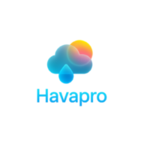
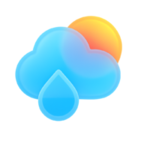
feat: Enhanced HavaPro branding and UI improvements
- Updated logo sizes and positioning across all pages
- Improved favicon with proper app/icon.png configuration
- Enhanced location search with duplicate prevention
- Fixed manifest.json location and configuration
- Optimized header spacing and layout
- Added smart location management (existing locations become main instead of duplicate)
- Updated app name to HavaPro throughout the application

diff --git a/components/locations-page.tsx b/components/locations-page.tsx
@@ -50,10 +50,23 @@ export function LocationsPage() {
       fetchLocations()
     } else {
       setResults([])
+      setError(null) // Clear error when search term is cleared
     }
   }, [debouncedSearchTerm])
 
   const handleAddLocation = async (location: SearchResult) => {
+    // Check if location already exists
+    const existingLocation = locations.find(loc => 
+      Math.abs(loc.lat - location.lat) < 0.01 && 
+      Math.abs(loc.lon - location.lon) < 0.01
+    );
+    
+    if (existingLocation) {
+      setError(`${location.name} is already in your locations list.`);
+      return;
+    }
+    
+    setError(null);
     await addLocation({
         name: location.name,
         lat: location.lat,
@@ -93,7 +106,10 @@ export function LocationsPage() {
             <Input
               placeholder="E.g., London, New York..."
               value={searchTerm}
-              onChange={(e) => setSearchTerm(e.target.value)}
+              onChange={(e) => {
+                setSearchTerm(e.target.value)
+                if (error) setError(null) // Clear error when typing
+              }}
               className="pl-10"
             />
             {loading && <Loader2 className="absolute right-3 top-1/2 -translate-y-1/2 h-5 w-5 animate-spin" />}
@@ -101,14 +117,27 @@ export function LocationsPage() {
           {error && <p className="text-red-500 mt-2">{error}</p>}
           {results.length > 0 && (
             <div className="mt-4 space-y-2 max-h-60 overflow-y-auto">
-              {results.map((result, index) => (
-                <div key={index} className="flex items-center justify-between p-2 rounded-md hover:bg-white/10">
-                  <span>{result.name}, {result.state ? `${result.state}, ` : ''}{result.country}</span>
-                  <Button size="sm" onClick={() => handleAddLocation(result)}>
-                    Add
-                  </Button>
-                </div>
-              ))}
+              {results.map((result, index) => {
+                const isAlreadyAdded = locations.some(loc => 
+                  Math.abs(loc.lat - result.lat) < 0.01 && 
+                  Math.abs(loc.lon - result.lon) < 0.01
+                );
+                
+                return (
+                  <div key={index} className="flex items-center justify-between p-2 rounded-md hover:bg-white/10">
+                    <span>{result.name}, {result.state ? `${result.state}, ` : ''}{result.country}</span>
+                    {isAlreadyAdded ? (
+                      <Badge variant="outline" className="text-green-400 border-green-400">
+                        Already added
+                      </Badge>
+                    ) : (
+                      <Button size="sm" onClick={() => handleAddLocation(result)}>
+                        Add
+                      </Button>
+                    )}
+                  </div>
+                );
+              })}
             </div>
           )}
         </CardContent>

diff --git a/app/layout.tsx b/app/layout.tsx
@@ -8,26 +8,13 @@ const inter = Inter({ subsets: ["latin"] })
 export const metadata: Metadata = {
   title: "HavaPro",
   description: "Advanced Weather Intelligence",
-  icons: {
-    icon: [
-      { url: '/favicon-16x16.png', sizes: '16x16', type: 'image/png' },
-      { url: '/favicon-32x32.png', sizes: '32x32', type: 'image/png' },
-      { url: '/favicon-96x96.png', sizes: '96x96', type: 'image/png' },
-      { url: '/favicon.ico' }
-    ],
-    apple: [
-      { url: '/apple-icon-57x57.png', sizes: '57x57', type: 'image/png' },
-      { url: '/apple-icon-60x60.png', sizes: '60x60', type: 'image/png' },
-      { url: '/apple-icon-72x72.png', sizes: '72x72', type: 'image/png' },
-      { url: '/apple-icon-76x76.png', sizes: '76x76', type: 'image/png' },
-      { url: '/apple-icon-114x114.png', sizes: '114x114', type: 'image/png' },
-      { url: '/apple-icon-120x120.png', sizes: '120x120', type: 'image/png' },
-      { url: '/apple-icon-144x144.png', sizes: '144x144', type: 'image/png' },
-      { url: '/apple-icon-152x152.png', sizes: '152x152', type: 'image/png' },
-      { url: '/apple-icon-180x180.png', sizes: '180x180', type: 'image/png' }
-    ]
+  applicationName: "HavaPro",
+  appleWebApp: {
+    title: "HavaPro",
+    statusBarStyle: "default",
+    capable: true,
   },
-  manifest: '/manifest.json'
+  manifest: "/manifest.json",
 }
 
 export default function RootLayout({
@@ -38,10 +25,9 @@ export default function RootLayout({
   return (
     <html lang="en">
       <head>
-        <link rel="manifest" href="/manifest.json" />
-        <meta name="msapplication-TileColor" content="#ffffff" />
-        <meta name="msapplication-TileImage" content="/ms-icon-144x144.png" />
-        <meta name="theme-color" content="#ffffff" />
+        <meta name="apple-mobile-web-app-title" content="HavaPro" />
+        <meta name="theme-color" content="#1f2937" />
+        <meta name="msapplication-config" content="/browserconfig.xml" />
       </head>
       <body className={`${inter.className} bg-gray-900 text-white`}>
         <Providers>{children}</Providers>

diff --git a/components/location-search.tsx b/components/location-search.tsx
@@ -17,7 +17,7 @@ interface SearchResult {
 }
 
 export function LocationSearch() {
-  const { addLocation, setMainLocation } = useProfile();
+  const { addLocation, setMainLocation, locations } = useProfile();
   const [open, setOpen] = useState(false)
   const [searchTerm, setSearchTerm] = useState("")
   const [debouncedSearchTerm] = useDebounce(searchTerm, 500)
@@ -52,18 +52,29 @@ export function LocationSearch() {
   const handleSelectLocation = async (location: SearchResult) => {
     setLoading(true)
     try {
-      // Add the location and get the new location object with its ID
-      const newLocation = await addLocation({
-        name: location.name,
-        country: location.country,
-        lat: location.lat,
-        lon: location.lon,
-        is_main: false, 
-      });
+      // Check if location already exists
+      const existingLocation = locations.find(loc => 
+        Math.abs(loc.lat - location.lat) < 0.01 && 
+        Math.abs(loc.lon - location.lon) < 0.01
+      );
+      
+      if (existingLocation) {
+        // Location already exists, just set it as main
+        await setMainLocation(existingLocation);
+      } else {
+        // Location doesn't exist, add it first then set as main
+        const newLocation = await addLocation({
+          name: location.name,
+          country: location.country,
+          lat: location.lat,
+          lon: location.lon,
+          is_main: false, 
+        });
 
-      if (newLocation && newLocation.id) {
-        // Set this new location as the main one
-        await setMainLocation(newLocation);
+        if (newLocation && newLocation.id) {
+          // Set this new location as the main one
+          await setMainLocation(newLocation);
+        }
       }
       
       // Reset and close

diff --git a/components/weather-dashboard.tsx b/components/weather-dashboard.tsx
@@ -100,22 +100,22 @@ export function WeatherDashboard() {
     <div className="min-h-screen p-3 sm:p-4 lg:p-6">
       <div className="max-w-8xl mx-auto">
         {/* Enhanced Header */}
-        <header className="glass-strong rounded-2xl sm:rounded-3xl p-4 sm:p-6 mb-4 sm:mb-6 animate-fade-in">
-          <div className="flex flex-col sm:flex-row items-start sm:items-center justify-between gap-4">
+        <header className="glass-strong rounded-2xl sm:rounded-3xl p-3 sm:p-4 mb-3 sm:mb-4 animate-fade-in">
+          <div className="flex flex-col sm:flex-row items-start sm:items-center justify-between gap-2 sm:gap-3">
             <div className="flex items-center gap-3">
               <div className="relative">
                 <Image 
                   src="/logo.png" 
                   alt="HavaPro Logo" 
-                  width={120} 
-                  height={40} 
-                  className="h-8 sm:h-10 w-auto"
+                  width={350} 
+                  height={120} 
+                  className="h-16 sm:h-20 w-auto"
                   priority
                 />
               </div>
             </div>
 
-            <div className="flex items-center gap-2 sm:gap-3 w-full sm:w-auto">
+            <div className="flex items-center gap-2 w-full sm:w-auto">
               <div className="flex-1 sm:flex-initial">
                 <LocationSearch />
               </div>

diff --git a/app/login/page.tsx b/app/login/page.tsx
@@ -6,6 +6,7 @@ import { Cloud } from 'lucide-react'
 import { useRouter } from 'next/navigation'
 import { useSession } from '@supabase/auth-helpers-react'
 import { useEffect } from 'react'
+import Image from 'next/image'
 
 export default function Login() {
   const supabaseClient = useSupabaseClient()
@@ -26,13 +27,15 @@ export default function Login() {
     <div className="flex items-center justify-center min-h-screen bg-gray-900">
       <div className="w-full max-w-md p-8 space-y-8 bg-gray-800/50 backdrop-blur-md rounded-2xl shadow-lg">
         <div className="text-center">
-            <div className="flex justify-center items-center gap-3 mb-4">
-              <div className="p-3 bg-gray-700/50 rounded-2xl">
-                <Cloud className="h-8 w-8 text-blue-400" />
-              </div>
-              <h1 className="text-3xl font-light text-white">
-                  Hava<span className="font-semibold">Pro</span>
-              </h1>
+            <div className="flex justify-center items-center mb-6">
+              <Image 
+                src="/logo.png" 
+                alt="HavaPro Logo" 
+                width={700} 
+                height={280} 
+                className="h-48 sm:h-56 w-auto"
+                priority
+              />
             </div>
             <p className="text-gray-400">Sign in to access your weather dashboard</p>
         </div>
